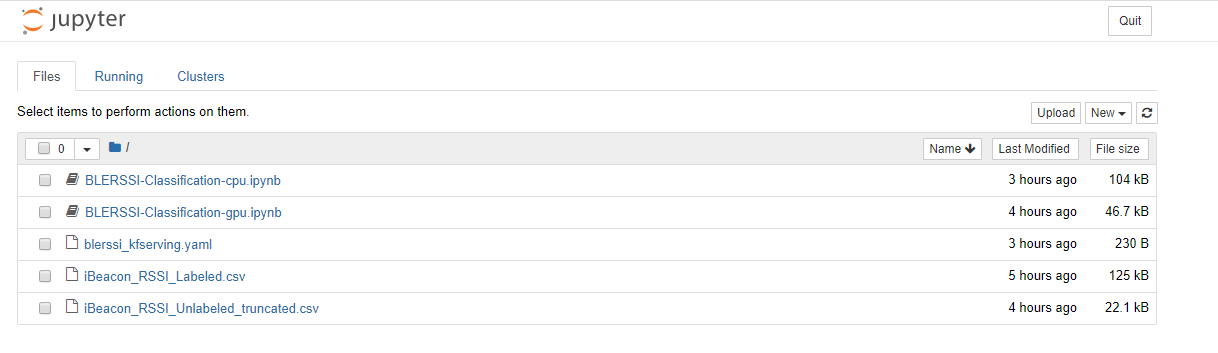
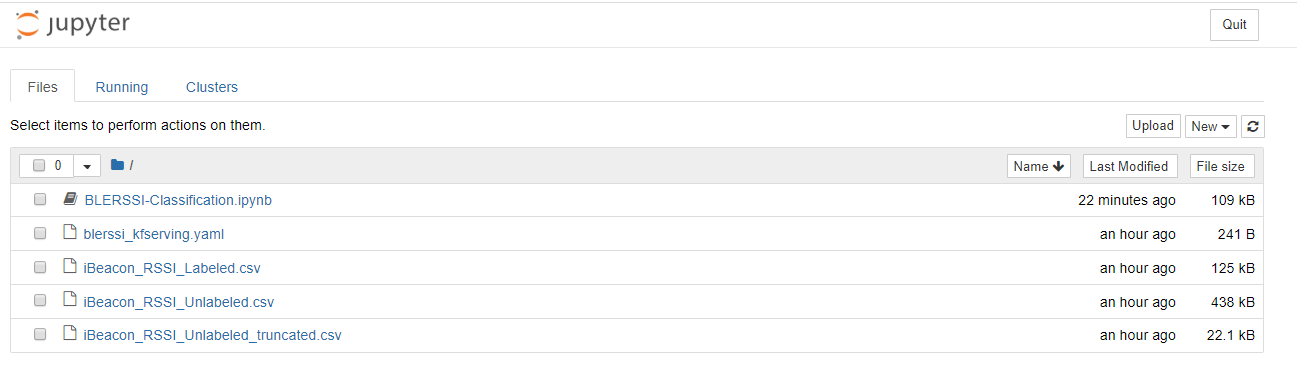
Updated Readme.md

diff --git a/apps/networking/ble-localization/onprem/notebook/README.md b/apps/networking/ble-localization/onprem/notebook/README.md
@@ -75,7 +75,7 @@ Once Notebook Server is created, click on Connect button.
 
 ### Upload Notebook, Data & Yaml files
 
-Upload the [BLERSSI-Classification-cpu.ipynb](./BLERSSI-Classification-cpu.ipynb) or [BLERSSI-Classification-gpu.ipynb](./BLERSSI-Classification-gpu.ipynb), [iBeacon_RSSI_Labeled.csv](./../data/iBeacon_RSSI_Labeled.csv) and [blerssi_kfserving.yaml](./blerssi_kfserving.yaml) to the Notebook Server.
+Upload the [BLERSSI-Classification.ipynb](./BLERSSI-Classification.ipynb), [iBeacon_RSSI_Labeled.csv](./../data/iBeacon_RSSI_Labeled.csv) and [blerssi_kfserving.yaml](./blerssi_kfserving.yaml) to the Notebook Server.
 
 ![TF-BLERSSI Pipeline](pictures/7-upload-pipeline-notebook1.PNG)
 
